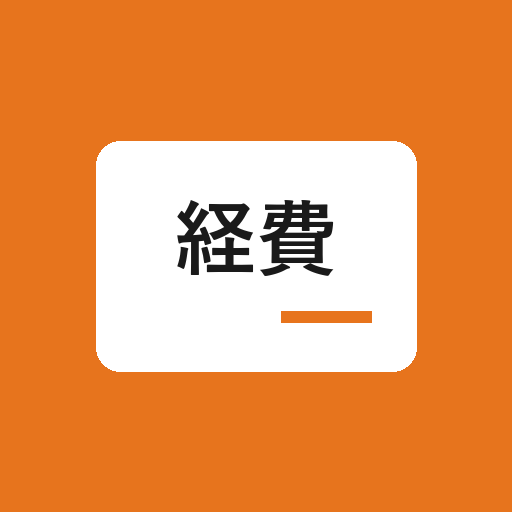
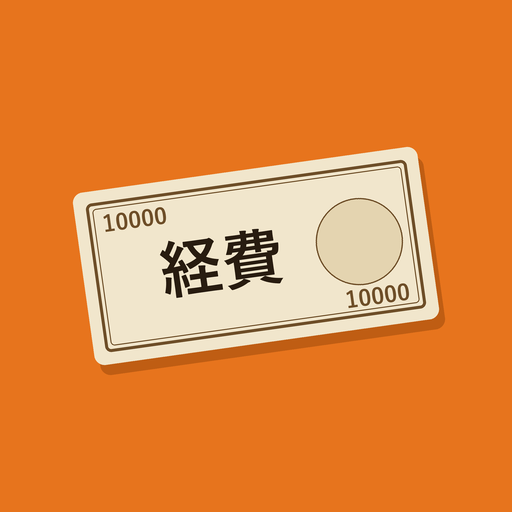
アイコンを1万円札ふうのお札＋「経費」に変更（sw keihi-v7）

Changed region(s): [[0.125, 0.25, 0.875, 0.75]]

diff --git a/sw.js b/sw.js
@@ -2,7 +2,7 @@
 // 画面のファイル（HTML・JS・CSS・アイコン）だけを置いておき、電波がなくてもアプリが開くようにする。
 // 台帳と写真（GASとのやり取り）は別のサイトあてなので、ここでは扱わない・保存しない。
 // 画面を更新したら VERSION を上げる。
-const VERSION = 'keihi-v6';
+const VERSION = 'keihi-v7';
 const SHELL = [
   './',
   './index.html',
